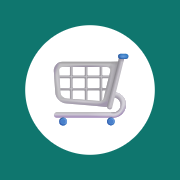
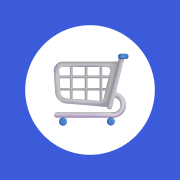
Add files via upload

diff --git a/index.html b/index.html
@@ -4,7 +4,7 @@
 <meta charset="utf-8">
 <meta name="viewport" content="width=device-width, initial-scale=1, viewport-fit=cover">
 <title>הקניות שלנו</title>
-<meta name="theme-color" content="#0f766e">
+<meta name="theme-color" content="#3b5bdb">
 <meta name="apple-mobile-web-app-capable" content="yes">
 <meta name="mobile-web-app-capable" content="yes">
 <meta name="apple-mobile-web-app-title" content="הקניות שלנו">
@@ -13,15 +13,15 @@
 <link rel="apple-touch-icon" href="apple-touch-icon.png">
 <link rel="icon" href="icon-192.png">
 <style>
-html,body{margin:0;height:100%;background:#0f766e;overflow:hidden;font-family:system-ui,-apple-system,sans-serif}
+html,body{margin:0;height:100%;background:#3b5bdb;overflow:hidden;font-family:system-ui,-apple-system,sans-serif}
 body{padding-top:env(safe-area-inset-top)}
 iframe{border:0;width:100%;height:100%;display:block;background:#fff}
 #load{position:fixed;inset:0;display:flex;flex-direction:column;align-items:center;justify-content:center;color:#fff;gap:14px}
 #load img{width:96px;height:96px;border-radius:22px}
 #fb{display:none;color:#fff;text-decoration:underline;font-size:14px}
-#rec{display:none;position:fixed;inset:0;z-index:50;background:rgba(15,118,110,.96);color:#fff;flex-direction:column;align-items:center;justify-content:center;gap:18px;text-align:center;padding:24px}
+#rec{display:none;position:fixed;inset:0;z-index:50;background:rgba(59,91,219,.96);color:#fff;flex-direction:column;align-items:center;justify-content:center;gap:18px;text-align:center;padding:24px}
 #rec.show{display:flex}
-#recBtn{width:120px;height:120px;border-radius:50%;border:0;background:#fff;color:#0f766e;font-size:52px}
+#recBtn{width:120px;height:120px;border-radius:50%;border:0;background:#fff;color:#3b5bdb;font-size:52px}
 #recBtn.on{background:#dc2626;color:#fff;animation:pulse 1.2s infinite}
 @keyframes pulse{50%{transform:scale(1.08)}}
 #recTxt{font-size:18px;min-height:2.6em;max-width:90%}
